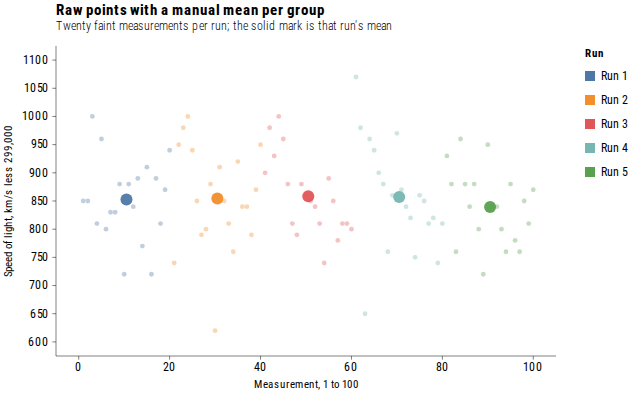
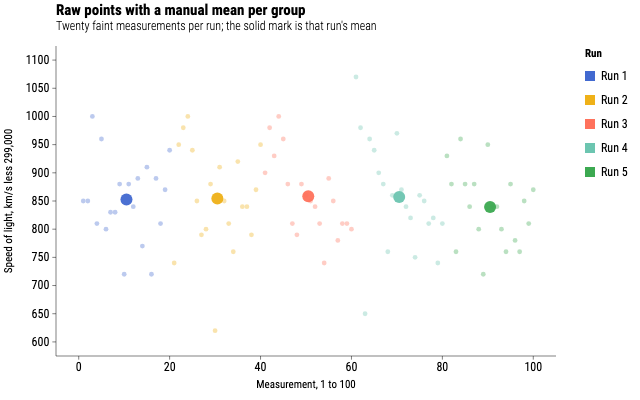
fix(docs): recapture gallery lights and fix colorblind palette a11y name
Refresh preview PNGs and provenance for the five examples that moved off
tableau10, and look up the colorblind palette row by its CB-safe aria-label.

diff --git a/tests/visual/docs-themes.spec.ts b/tests/visual/docs-themes.spec.ts
@@ -246,8 +246,9 @@ test("categorical palettes show ordered swatches and reverse without hex code ch
   await expect(firstMark).toBeVisible();
 
   // Hover previews transiently; click pins the selection (aria-pressed).
+  // colorblind is in COLORBLIND_SAFE_SCHEMES, so the row name ends in ", CB-safe".
   const colorblind = region.getByRole("button", {
-    name: "Colorblind, 8 colors",
+    name: "Colorblind, 8 colors, CB-safe",
     exact: true,
   });
   await colorblind.hover();
@@ -286,7 +287,7 @@ test("palette deep links pre-select and re-apply on same-route navigation", asyn
   const region = page.getByRole("region", { name: "Categorical palettes" });
   const preview = page.getByRole("region", { name: "Palette preview" });
   const colorblind = region.getByRole("button", {
-    name: "Colorblind, 8 colors",
+    name: "Colorblind, 8 colors, CB-safe",
     exact: true,
   });
   await expect(colorblind).toHaveAttribute("aria-pressed", "true");
